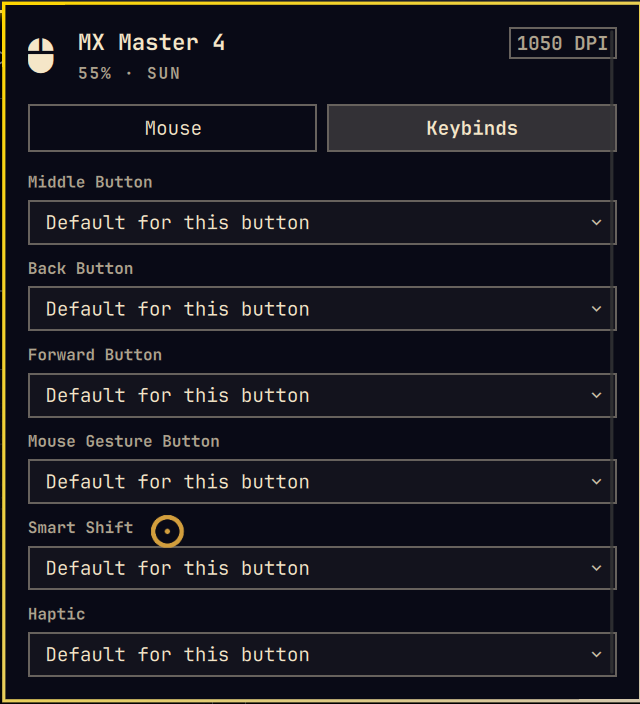
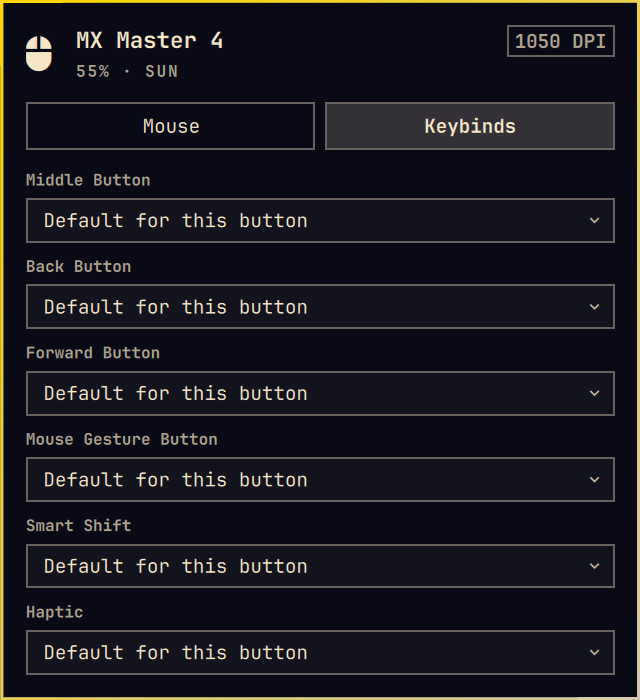
Remove the panel scrollbar and recrop previews flush to the card.
The AlwaysOn scrollbar was the gray rule on the right. Captures now
end on the gold frame with no leftover desktop pixels.

Changed region(s): [[0.0, 0.0, 1.0, 1.0]]

diff --git a/Panel.qml b/Panel.qml
@@ -1,7 +1,6 @@
 pragma ComponentBehavior: Bound
 
 import QtQuick
-import QtQuick.Controls
 import QtQuick.Layouts
 import Quickshell
 import Quickshell.Io
@@ -83,14 +82,10 @@ Panel {
         anchors.fill: parent
         contentWidth: width
         contentHeight: column.implicitHeight
-        clip: true
+        clip: false
         boundsBehavior: Flickable.StopAtBounds
-        interactive: true
+        interactive: contentHeight > height
         flickableDirection: Flickable.VerticalFlick
-        ScrollBar.vertical: ScrollBar {
-          policy: ScrollBar.AlwaysOn
-          width: Style.space(6)
-        }
 
         Column {
           id: column
